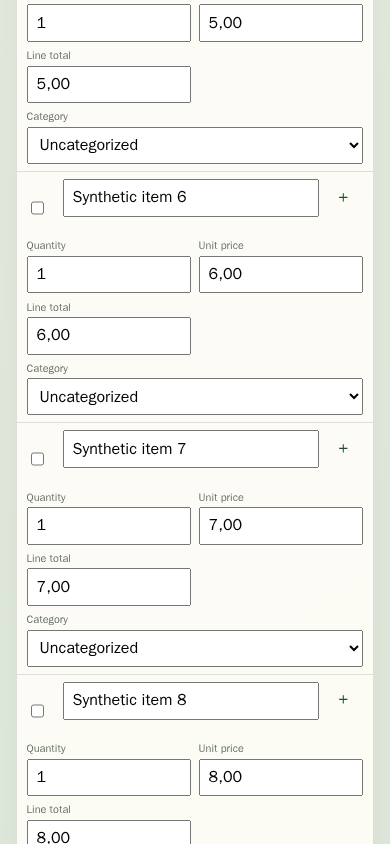
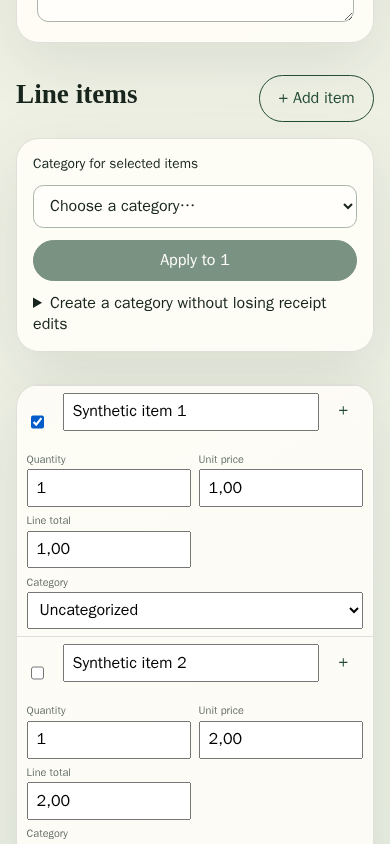
fix(web): stabilize actionable row expansion

Changed region(s): [[0.0308, 0.0, 0.9538, 1.0], [0.8615, 0.2156, 0.9231, 0.2464], [0.8615, 0.5237, 0.8923, 0.5545]]

diff --git a/tests/e2e/smoke.spec.ts b/tests/e2e/smoke.spec.ts
@@ -43,6 +43,12 @@ test("shows dense editable line rows without horizontal overflow", async ({
   await page
     .getByRole("table", { name: "Receipt line items" })
     .scrollIntoViewIfNeeded();
+  const firstSelection = page.getByRole("checkbox", {
+    name: "Item 1",
+    exact: true,
+  });
+  await firstSelection.click();
+  await expect(firstSelection).toBeChecked();
   await expect(page.locator("body")).toHaveJSProperty("scrollWidth", 390);
   await page.screenshot({
     path: "docs/screenshots/pr-64/compact-lines-mobile.png",
@@ -316,6 +322,14 @@ test("remembers, suggests, replaces, and repairs an exact category rule", async 
   await expect(
     page.getByText(`Suggested: ${firstCategory.name} · global`),
   ).toBeVisible();
+  await page
+    .getByRole("button", { name: "Collapse details for item 1" })
+    .click();
+  await page.getByRole("textbox", { name: "Receipt total" }).fill("1,01");
+  await expect(
+    page.getByRole("button", { name: "Expand details for item 1" }),
+  ).toHaveAttribute("aria-expanded", "false");
+  await page.getByRole("button", { name: "Expand details for item 1" }).click();
   await expect(page.getByLabel("Category", { exact: true })).toHaveValue("");
   await page.getByRole("button", { name: "Adopt suggestion" }).click();
   await expect(page.getByLabel("Category", { exact: true })).toHaveValue(

diff --git a/apps/web/src/App.tsx b/apps/web/src/App.tsx
@@ -2208,9 +2208,10 @@ function ReceiptEditor({ id }: { id: string }) {
                               onStatus={setStatus}
                               onActionable={() => {
                                 if (!userToggledItems.current.has(item.key))
-                                  setExpandedItems((current) =>
-                                    new Set(current).add(item.key),
-                                  );
+                                  setExpandedItems((current) => {
+                                    if (current.has(item.key)) return current;
+                                    return new Set(current).add(item.key);
+                                  });
                               }}
                             />
                           </div>

diff --git a/apps/web/src/styles.css b/apps/web/src/styles.css
@@ -901,6 +901,8 @@ code {
     grid-column: 1;
     grid-row: 1;
     justify-self: start;
+    position: relative;
+    z-index: 1;
   }
   .line-cell--description {
     grid-column: 1 / 4;
